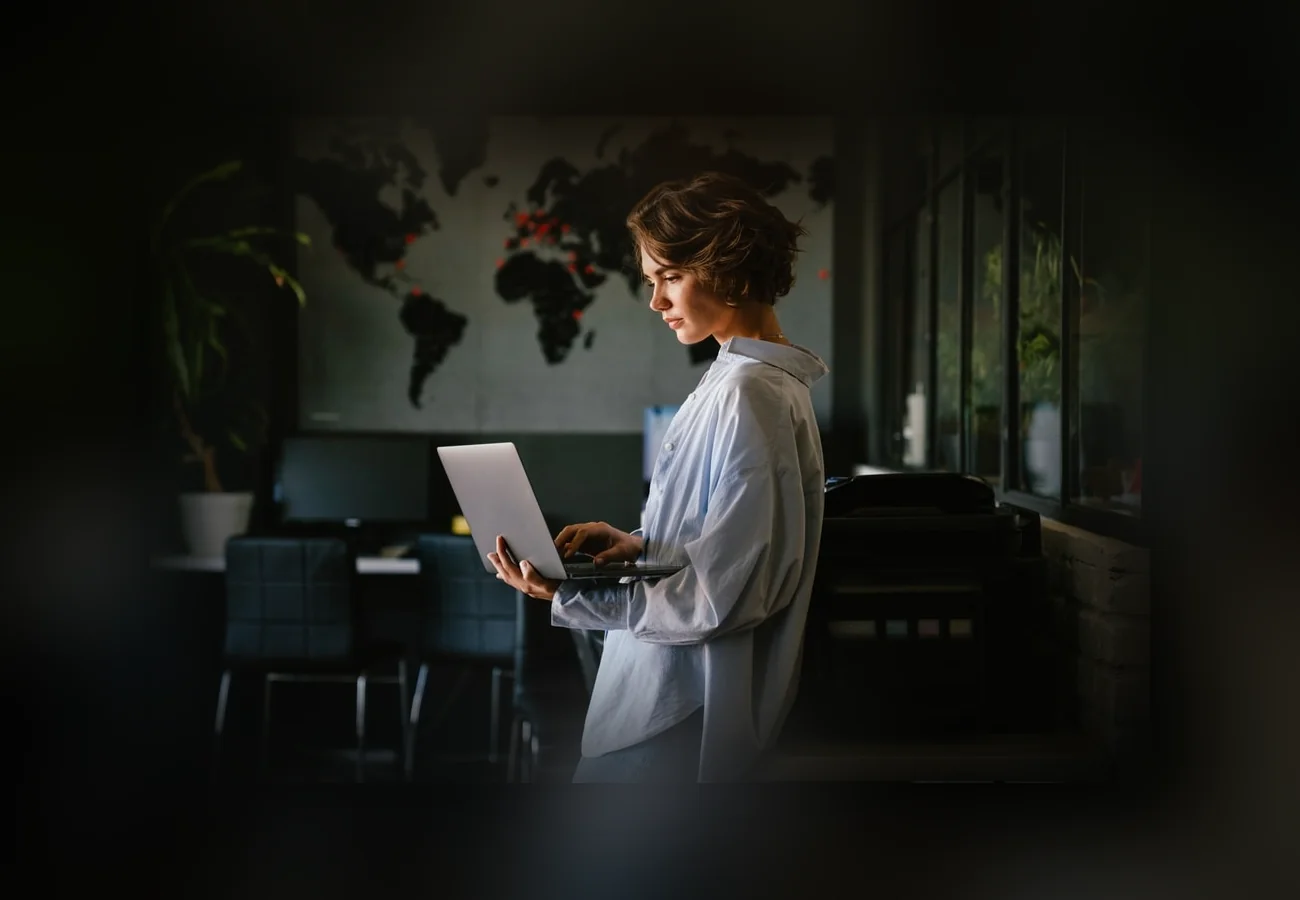
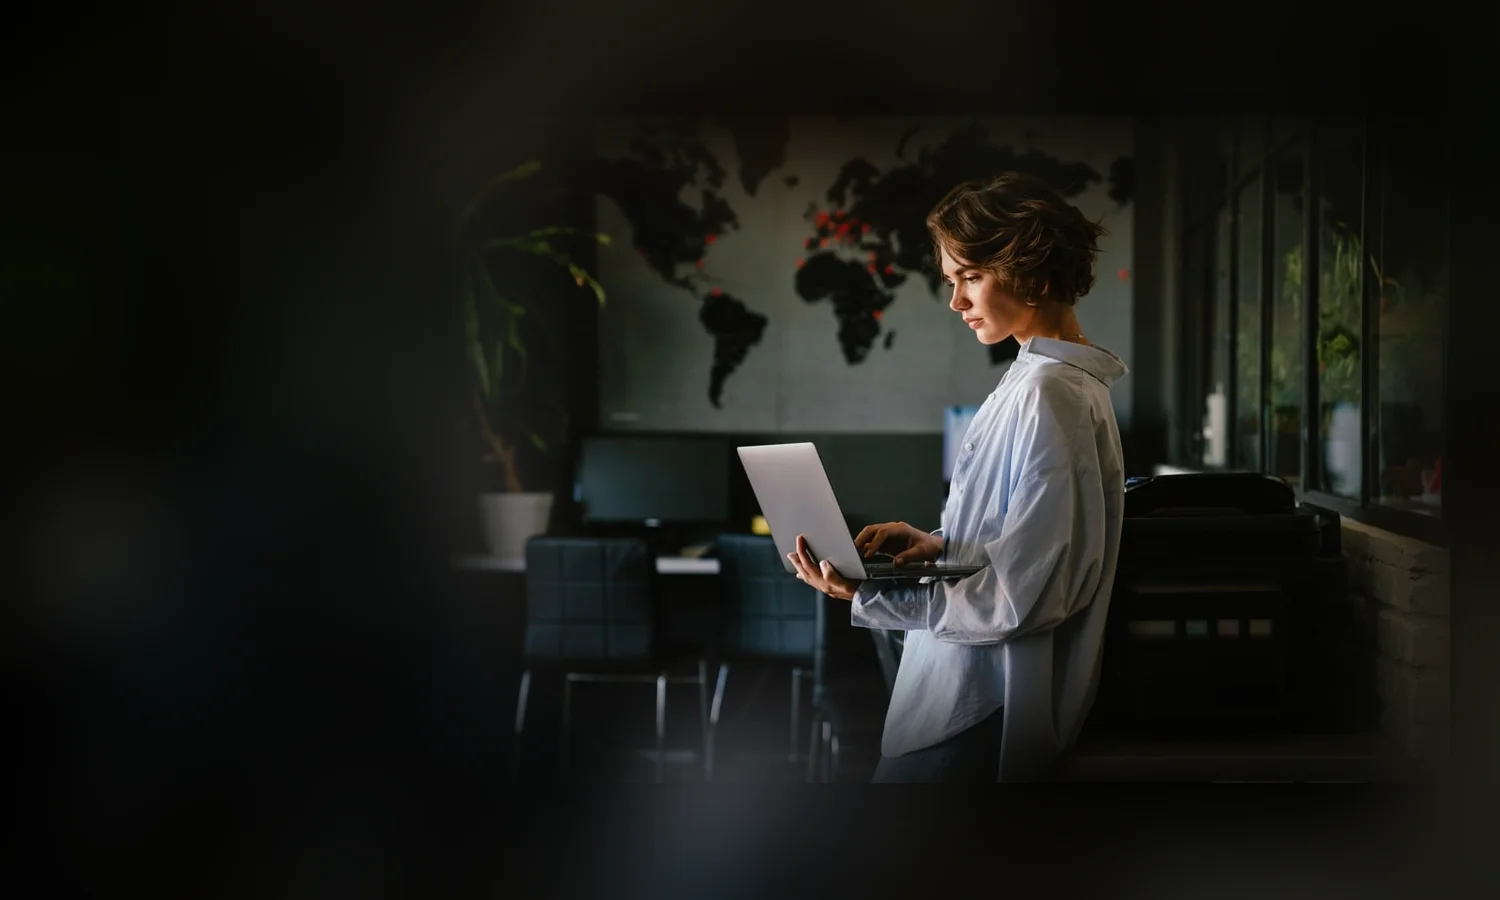
Hero: sujeto desplazado a la derecha, zona izquierda despejada para el titular

diff --git a/index.html b/index.html
@@ -440,7 +440,7 @@
 
     <!-- ============================================ S1 — HERO ============================================ -->
     <section id="inicio" class="hero">
-        <img class="hero-img" id="hero-img" src="img/hero.webp" srcset="img/hero-1280.webp 1280w, img/hero.webp 1920w" sizes="100vw" width="1300" height="900" alt="" loading="eager" fetchpriority="high">
+        <img class="hero-img" id="hero-img" src="img/hero.webp" srcset="img/hero-1280.webp 1280w, img/hero.webp 1920w" sizes="100vw" width="1500" height="900" alt="" loading="eager" fetchpriority="high">
         <div class="container">
             <div class="hero-content">
                 <span class="hero-badge hero-rise hero-rise-1">